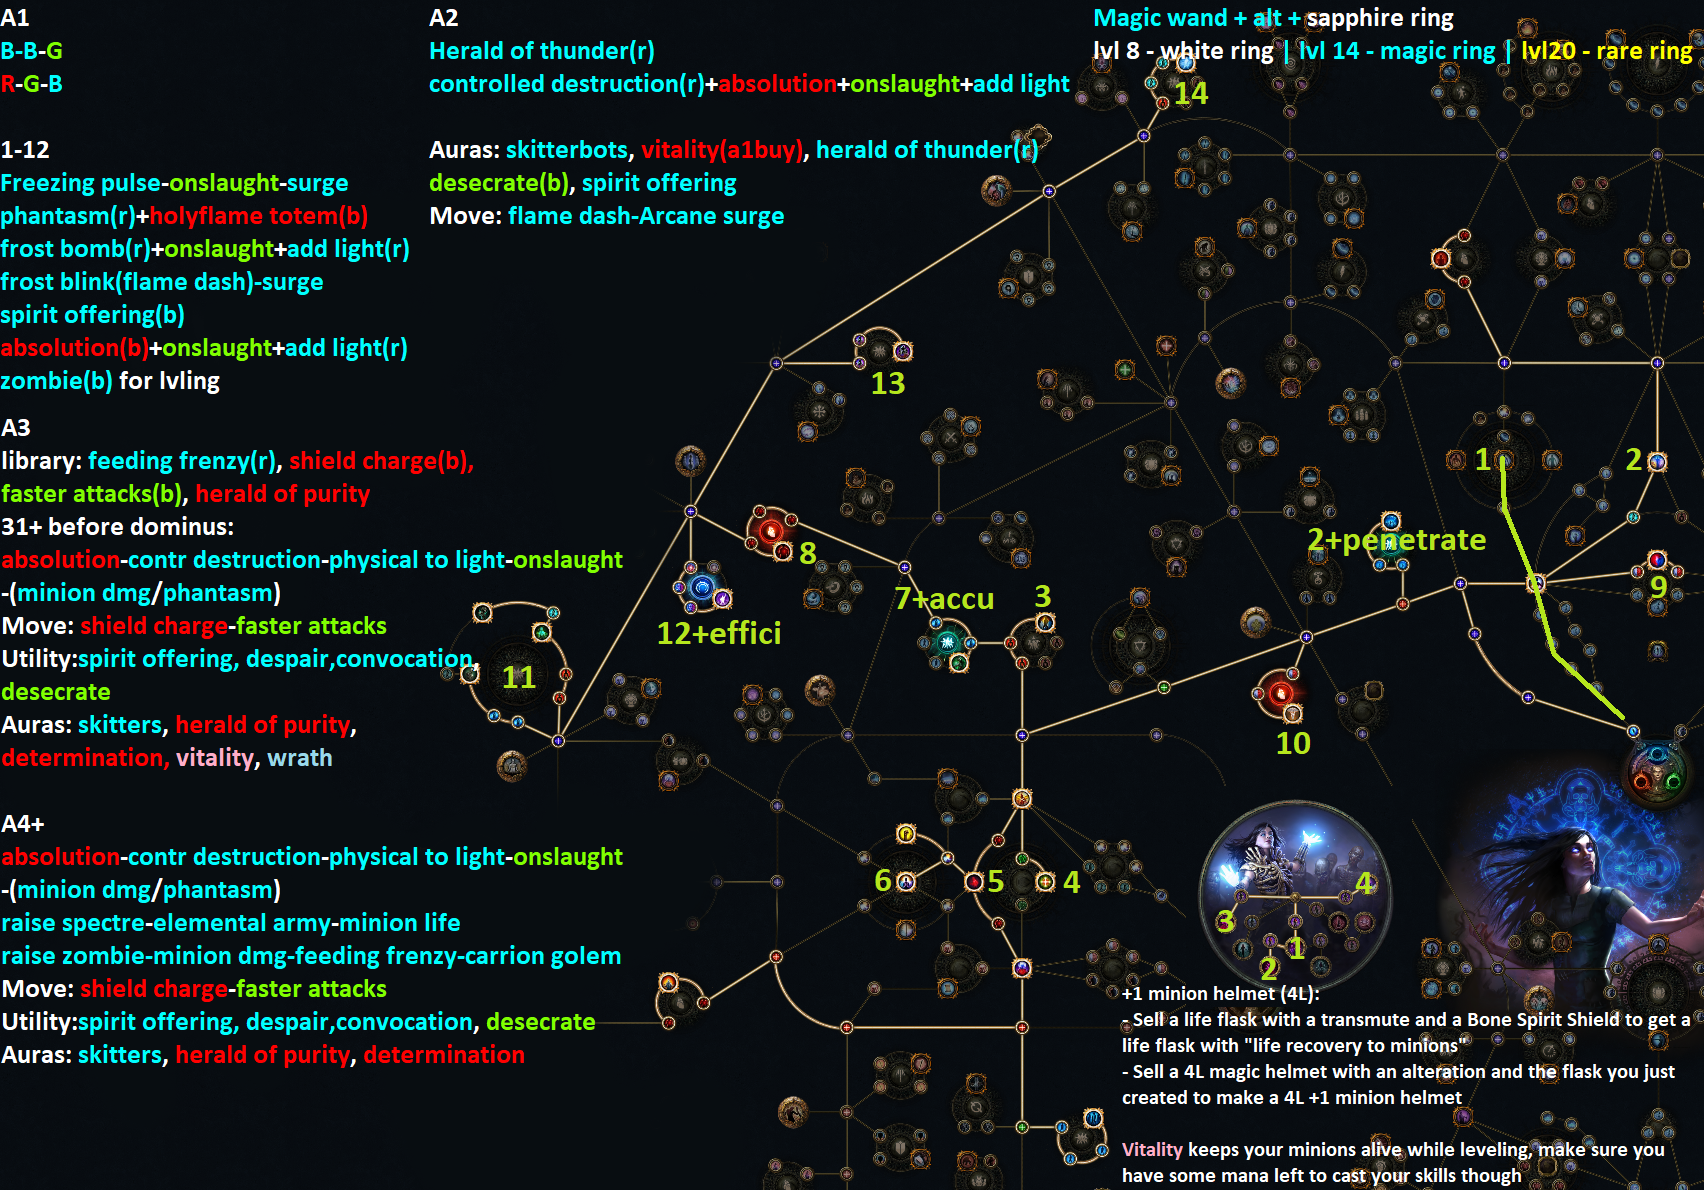
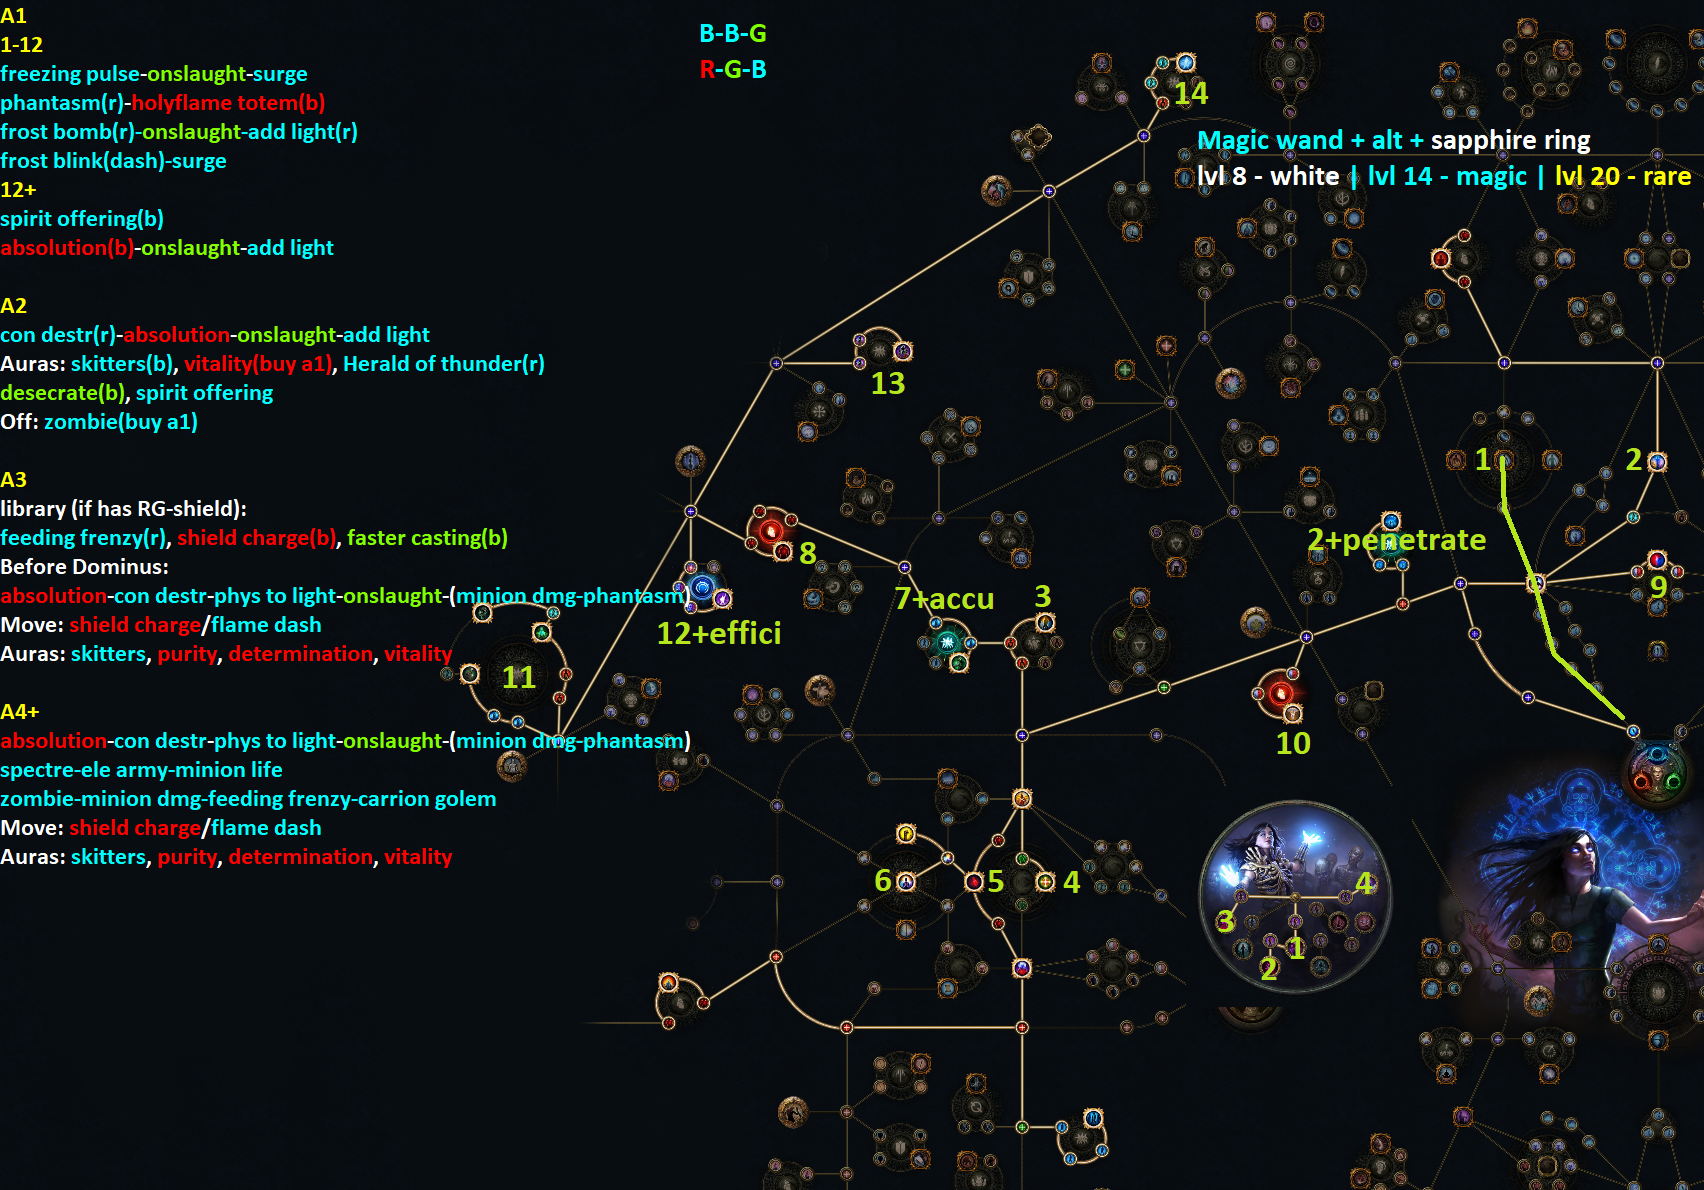
added new pages and content

diff --git a/index.html b/index.html
@@ -43,7 +43,7 @@
 		</aside>
 		<section>
 			<p>b-b-g|b-g-b|g-b-b|r-g-b|r-b-g|b-r-g|b-g-r|g-b-r|g-r-b|move|([rgb]-){3}[rgb]</p>
-			<p>	<img src="images/skele_mages.png" height="1100"> </p>
+			<p>	<img src="images/skele_mages.png" height="920"> </p>
 			<p>+1 minion helmet (4L):</p>
 			<li>Sell a life flask with a transmute and a Bone Spirit Shield to get a life flask with "life recovery to minions"</li>
 			<li color="redgem">Sell a 4L magic helmet with an alteration and the flask you just created to make a 4L +1 minion helmet</li>
